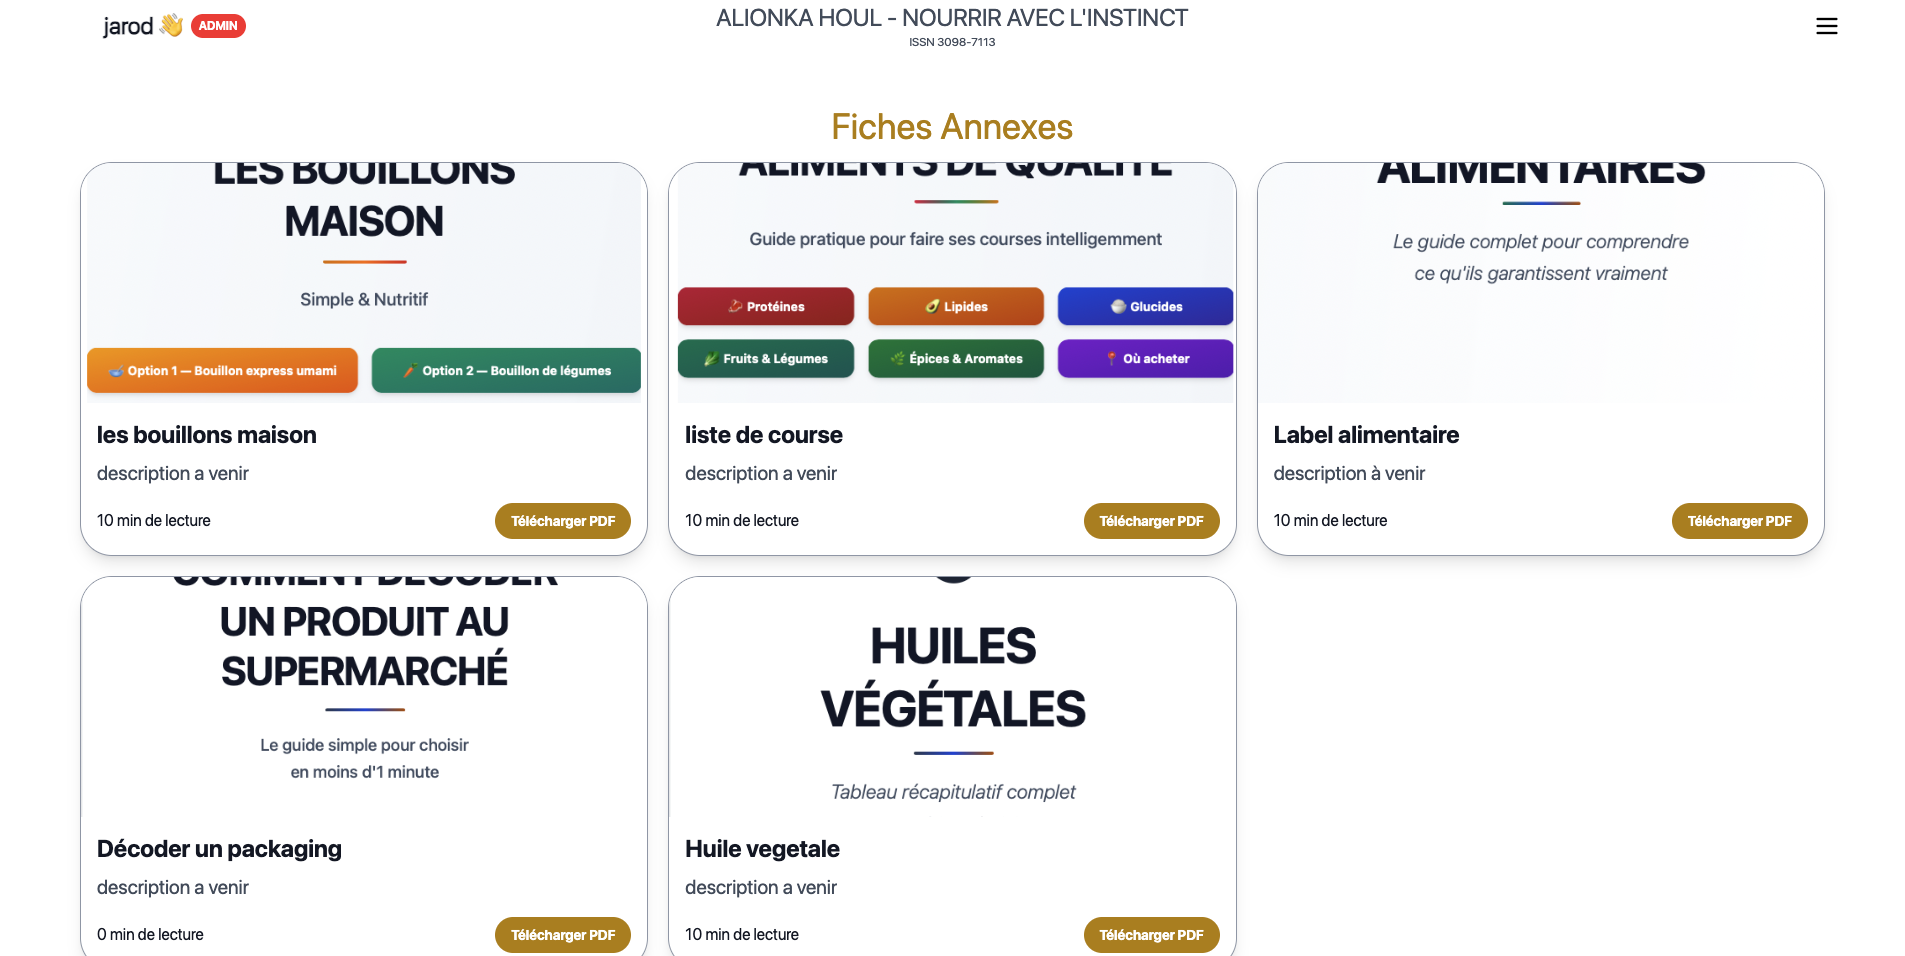
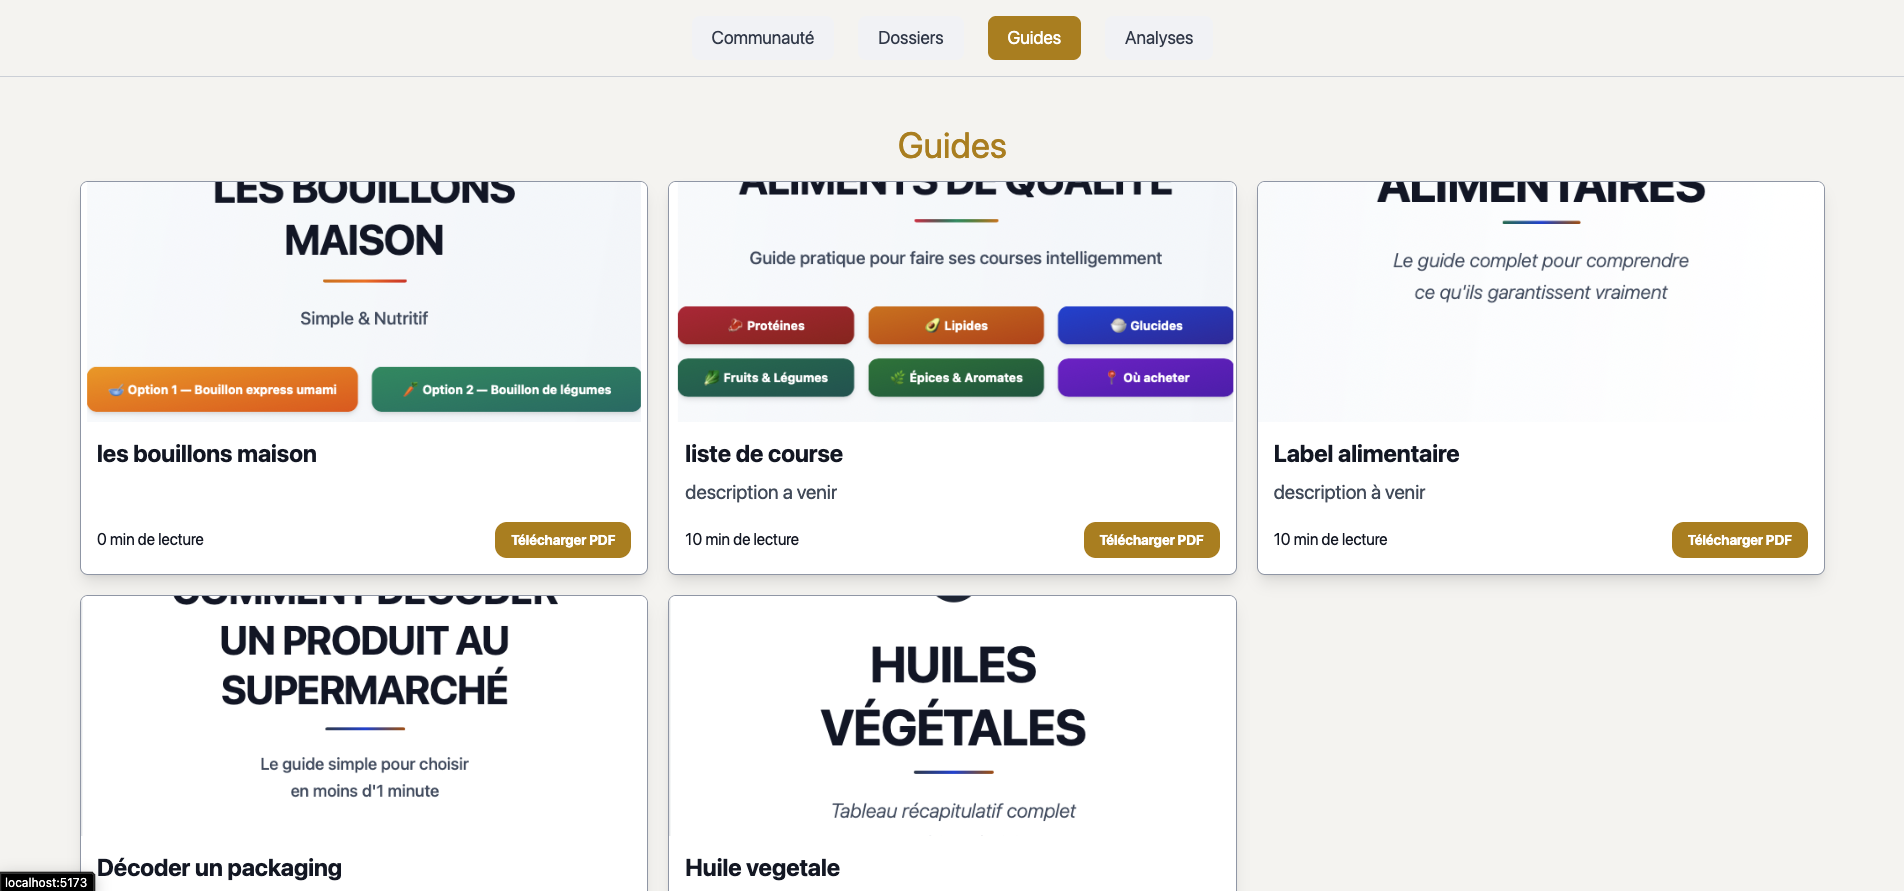
change page community and add video abonnemnt

diff --git a/frontend/src/pages/Community.jsx b/frontend/src/pages/Community.jsx
@@ -13,23 +13,59 @@ function Community() {
         </Helmet>
         <NavCommunity />
         <PremiumOverlay>
-        <main className='pt-8 flex flex-col md:flex-row gap-10 mx-4 md:mx-auto md:max-w-6xl'>
-        <div className='text-white p-4 border-1 border-gray-300 rounded-lg bg-degrade-marron shadow-lg dark:bg-neutral-800 dark:border-neutral-500'>
-            <h1 className='font-SFBold text-2xl'>Bienvenue dans la Communauté Antifragile !</h1>
-            <p className='font-SF text-xl mt-8'>Tu es au bon endroit. Voilà comment naviguer :<br/>
-🗂 Les dossiers vidéos : commence par là<br/>
-📄 Les guides : fiches PDF pratiques<br/>
-🔬 Les analyses : pour aller plus loin<br/>Une question ? Une adresse à partager ? Une recette ? 👉 [Rejoindre le groupe Telegram]</p>
-        </div>
-        <aside className='md:w-2/3 p-4 border-1 border-gray-300 rounded-lg shadow-lg dark:bg-neutral-800 dark:border-neutral-500'>
-            <div>
-                    <img src= {livre} className='w-full max-w-sm mt-4 rounded-lg shadow-lg' />
-            
-                <button onClick={() => window.location.href = "https://amzn.eu/d/2ZR5MMo"} className='mt-4 inline-block bg-marron text-white px-6 py-3 rounded-xl hover:bg-opacity-80 transition-all'>Découvrir le livre sur Amazon</button>            
-                
+        <main className='pt-8 pb-16 px-4 md:px-8 max-w-5xl mx-auto flex flex-col gap-8'>
+
+            {/* Carte de bienvenue */}
+            <div className='bg-marron text-white p-6 md:p-8 rounded-2xl shadow-lg'>
+                <h1 className='font-SFBold text-2xl md:text-3xl mb-4'>Bienvenue dans la Communauté Nutrition Antifragile !</h1>
+                <p className='font-SF text-lg mb-6 opacity-90'>Tu es au bon endroit. Voilà comment naviguer :</p>
+                <ul className='space-y-3 mb-8'>
+                    <li className='font-SF text-lg flex items-center gap-3'>
+                        <span className='text-xl'>🗂</span>
+                        <span><strong>Les dossiers vidéos</strong> — commence par là</span>
+                    </li>
+                    <li className='font-SF text-lg flex items-center gap-3'>
+                        <span className='text-xl'>📄</span>
+                        <span><strong>Les guides</strong> — fiches PDF pratiques</span>
+                    </li>
+                    <li className='font-SF text-lg flex items-center gap-3'>
+                        <span className='text-xl'>🔬</span>
+                        <span><strong>Les analyses</strong> — pour aller plus loin</span>
+                    </li>
+                </ul>
+                <div className='border-t border-white/30 pt-6'>
+                    <p className='font-SF text-lg mb-4 opacity-90'>Une question ? Une adresse à partager ? Une recette ?</p>
+                    <a
+                        href="https://t.me/joinchat/AAAAAEj8n9sXoQy7l3c5w"
+                        target="_blank"
+                        rel="noopener noreferrer"
+                        className='inline-block bg-white text-marron font-SFBold px-6 py-3 rounded-full transition-all duration-200 hover:bg-peach hover:text-white hover:scale-105 active:scale-95'
+                    >
+                        👉 Rejoindre le groupe Telegram
+                    </a>
+                </div>
             </div>
 
-        </aside>
+            {/* Carte livre */}
+            <div className='bg-white dark:bg-neutral-800 border border-gray-200 dark:border-neutral-600 rounded-2xl shadow-lg p-6 md:p-8 flex flex-col md:flex-row gap-8 items-center'>
+                <img src={livre} alt="Livre Nutrition Antifragile" className='w-48 md:w-56 rounded-xl shadow-md flex-shrink-0' />
+                <div className='flex flex-col gap-4'>
+                    <h2 className='font-SFBold text-2xl dark:text-white'>Mon livre — disponible sur Amazon</h2>
+                    <p className='font-SF text-lg text-gray-600 dark:text-gray-300'>
+                        Un guide complet pour comprendre les bases de la nutrition intelligente et mettre en place une alimentation qui te rendra plus fort, plus résilient et plus performant au quotidien.
+                    </p>
+                    <p className='font-SF text-lg text-gray-600 dark:text-gray-300'>
+                        Des explications claires, des conseils pratiques et des stratégies concrètes pour devenir plus résilient face aux défis nutritionnels du quotidien.
+                    </p>
+                    <button
+                        onClick={() => window.location.href = "https://amzn.eu/d/2ZR5MMo"}
+                        className='self-start mt-2 bg-marron text-white font-SFBold px-6 py-3 rounded-full transition-all duration-200 hover:bg-opacity-80 hover:scale-105 active:scale-95'
+                    >
+                        Découvrir le livre sur Amazon
+                    </button>
+                </div>
+            </div>
+
         </main>
         </PremiumOverlay>
         </>

diff --git a/frontend/src/pages/abonnement.jsx b/frontend/src/pages/abonnement.jsx
@@ -24,6 +24,9 @@ import avis13 from  '../assets/images/avis13.jpg'
 import avis14 from  '../assets/images/avis14.jpg'
 import avis15 from  '../assets/images/avis15.jpg'
 import miniature from '../assets/images/miniature.png';
+import miniature2 from '../assets/images/miniature2.png';
+import miniature3 from '../assets/images/miniature3.png';
+import videoAbo from '../assets/video/video abo.mp4';
 
 
   
@@ -35,6 +38,7 @@ function Abonnement() {
     const [errorMessage, setErrorMessage] = useState('');
     const [showLoginForm, setShowLoginForm] = useState(false);
 
+    const [zoomedImg, setZoomedImg] = useState(null);
     const errorRef = useRef(null);
     const loginFormRef = useRef(null);
 
@@ -95,12 +99,19 @@ function Abonnement() {
         </header>
             <form className="pt-8" onSubmit={handleSubmit}>
             <div className='bg-white  dark:bg-neutral-800 flex flex-col border-2 rounded-lg shadow-lg shadow-black/50 p-10 mx-2 md:mx-auto md:max-w-4xl border-marron'>
-            <iframe className="w-full h-64 md:h-112 rounded-xl" src="https://www.youtube.com/embed/Gu-g8FRG4Zs" title="Vidéo de présentation de l'abonnement" frameBorder="0" allow="accelerometer; autoplay; clipboard-write; encrypted-media; gyroscope; picture-in-picture" allowFullScreen></iframe>
+            <video className="w-full rounded-xl" controls  >
+                <source src={videoAbo} type="video/mp4" />
+            </video>
             <div className='flex flex-row md:gap-4 gap-1 mt-6 overflow-x-auto snap-x snap-mandatory md:overflow-visible'>
-                <img src={miniature} alt="Miniature de la vidéo" className="min-w-[70%] md:min-w-0 md:w-60 h-25 md:h-40 rounded-xl object-cover snap-start" />
-                <img src={miniature} alt="Miniature de la vidéo" className="min-w-[70%] md:min-w-0 md:w-60 h-25 md:h-40 rounded-xl object-cover snap-start" />
-                <img src={miniature} alt="Miniature de la vidéo" className="min-w-[70%] md:min-w-0 md:w-60 h-25 md:h-40 rounded-xl object-cover snap-start" />
+                <img src={miniature} alt="Miniature de la vidéo" className="min-w-[70%] md:min-w-0 md:w-60 h-25 md:h-40 rounded-xl object-cover snap-start cursor-pointer hover:opacity-90 transition-opacity" onClick={() => setZoomedImg(miniature)} />
+                <img src={miniature2} alt="Miniature de la vidéo" className="min-w-[70%] md:min-w-0 md:w-60 h-25 md:h-40 rounded-xl object-cover snap-start cursor-pointer hover:opacity-90 transition-opacity" onClick={() => setZoomedImg(miniature2)} />
+                <img src={miniature3} alt="Miniature de la vidéo" className="min-w-[70%] md:min-w-0 md:w-60 h-25 md:h-40 rounded-xl object-cover snap-start cursor-pointer hover:opacity-90 transition-opacity" onClick={() => setZoomedImg(miniature3)} />
             </div>
+            {zoomedImg && (
+                <div className="fixed inset-0 bg-black/80 z-50 flex items-center justify-center p-4" onClick={() => setZoomedImg(null)}>
+                    <img src={zoomedImg} alt="Zoom" className="max-w-full max-h-full rounded-xl shadow-2xl" />
+                </div>
+            )}
             <div>
                 <h2 className='font-SFBold text-xl md:text-2xl mt-8 mb-4  dark:text-white'>Pour qui ?</h2>
                 <p className='font-SF text-lg md:text-xl text-gray-600  dark:text-white'>Pour ceux qui en ont marre d'entendre tout et son contraire.<br/>Pour ceux qui veulent comprendre, pas juste appliquer bêtement.<br/>Pour ceux qui veulent (vraiment) prendre leur santé en main et devenir acteurs de leur vie.</p>

diff --git a/frontend/src/pages/home.jsx b/frontend/src/pages/home.jsx
@@ -16,19 +16,14 @@ function Home() {
 
         </Helmet>
         <div className="relative">
-               <main>
+            <div className="blur-sm pointer-events-none select-none">
+                <main>
                 <HomeHeader />
                 <ProfilSection />
                 <BookSection />
                 <MemberSection />
-                </main> 
-            {/* Effet de flou pour les sections en dessous du header 
-            <div className="blur-sm pointer-events-none select-none">
-             
+                </main>
             </div>
-            */}
-            
-            {/* Overlay de maintenance - à activer en cas de besoin 
             <div className="fixed inset-0 flex items-start justify-center pt-20 bg-white/60 dark:bg-neutral-900/70 z-[100]">
                 <div className="text-center p-8 md:p-12 bg-white rounded-2xl shadow-2xl max-w-lg mx-4 dark:bg-neutral-800 border border-gray-200 dark:border-neutral-700">
                     <svg className="w-16 h-16 text-marron mx-auto mb-6" fill="none" stroke="currentColor" viewBox="0 0 24 24" strokeWidth={1.5}>
@@ -40,8 +35,6 @@ function Home() {
                     </p>
                 </div>
             </div>
-            */}
-            
         </div>
     </>
     );

diff --git a/frontend/src/pages/Annexes.jsx b/frontend/src/pages/Annexes.jsx
@@ -64,14 +64,13 @@ function Annexes() {
                                     {stripHtml(annexe.description)}
                                 </p>
                             </div>
-                            <div className="flex items-center justify-between pt-4">
-                                <p className="font-SF">{annexe.duration} min de lecture</p>
+                            <div className="flex items-center justify-end pt-4">
                                 {annexe.fichier_pdf_url && (
                                     <a
                                         href={annexe.fichier_pdf_url}
                                         target="_blank"
                                         rel="noreferrer"
-                                        className="text-white bg-marron hover:bg-opacity-80 font-SFBold rounded-xl px-4 py-2 text-sm transition-colors"
+                                        className="text-white bg-marron hover:bg-opacity-80 font-SFBold rounded-full px-4 py-2 text-sm transition-colors"
                                     >
                                         Télécharger PDF
                                     </a>
